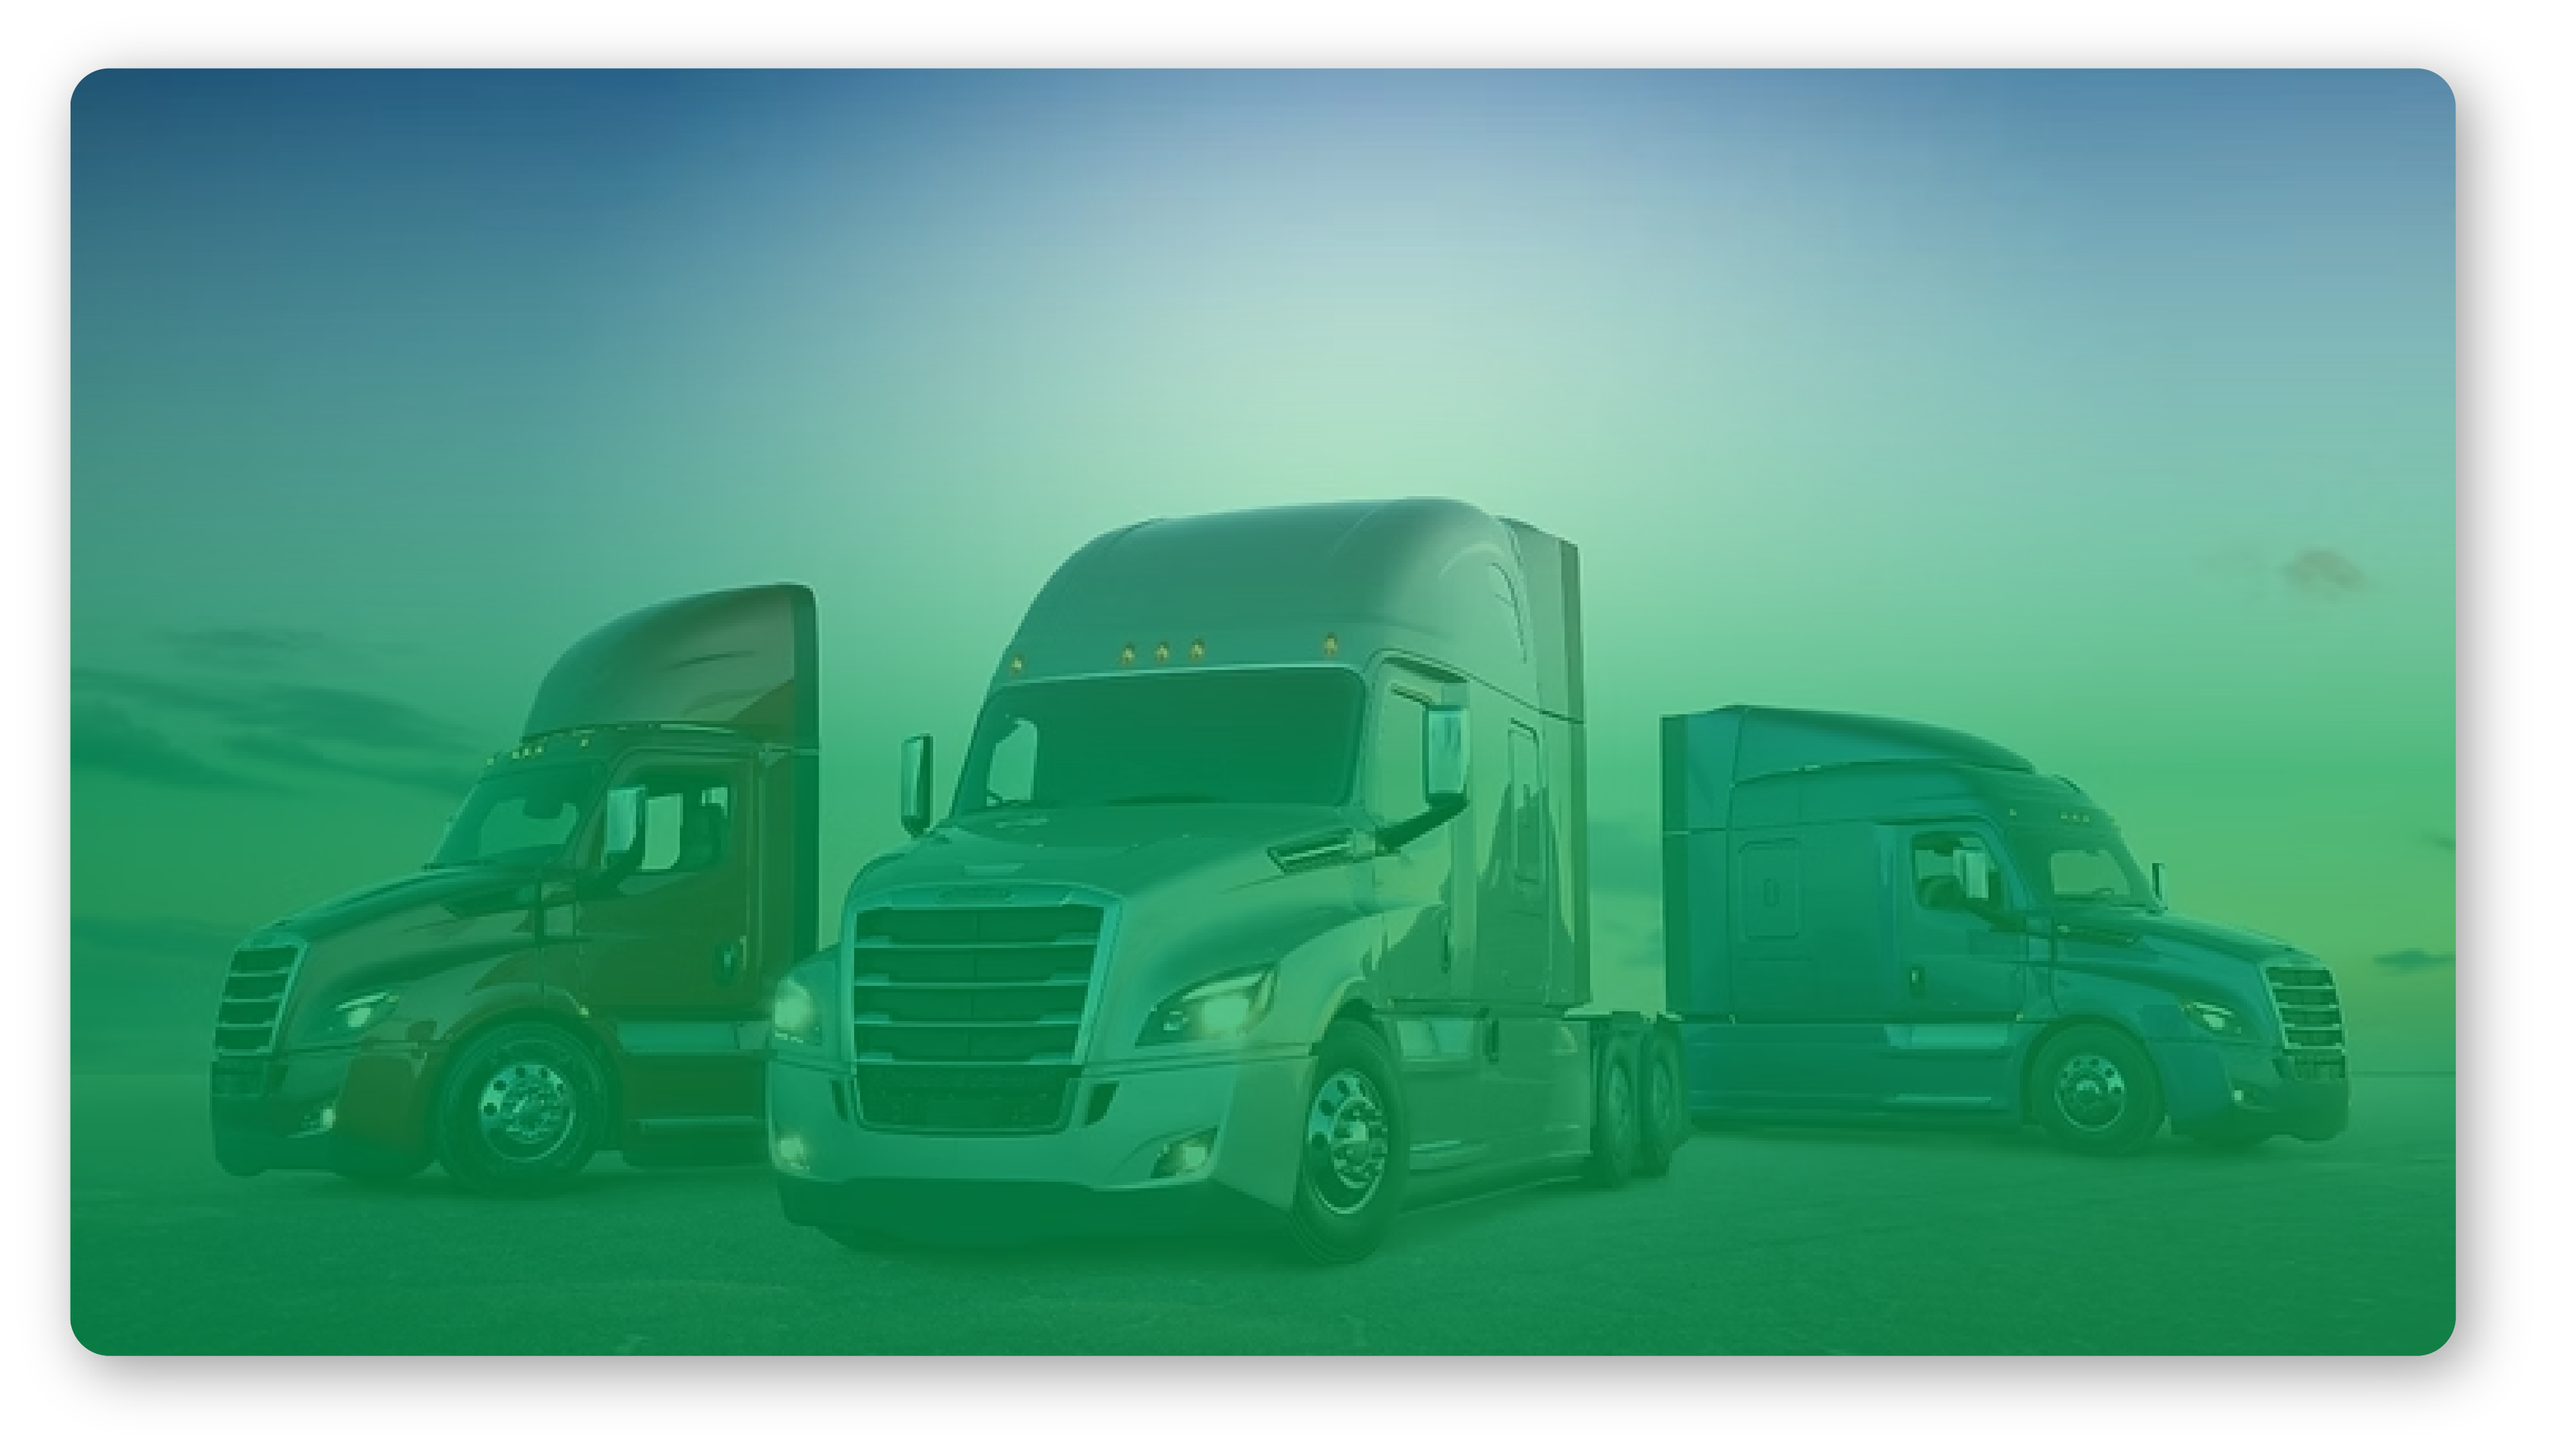
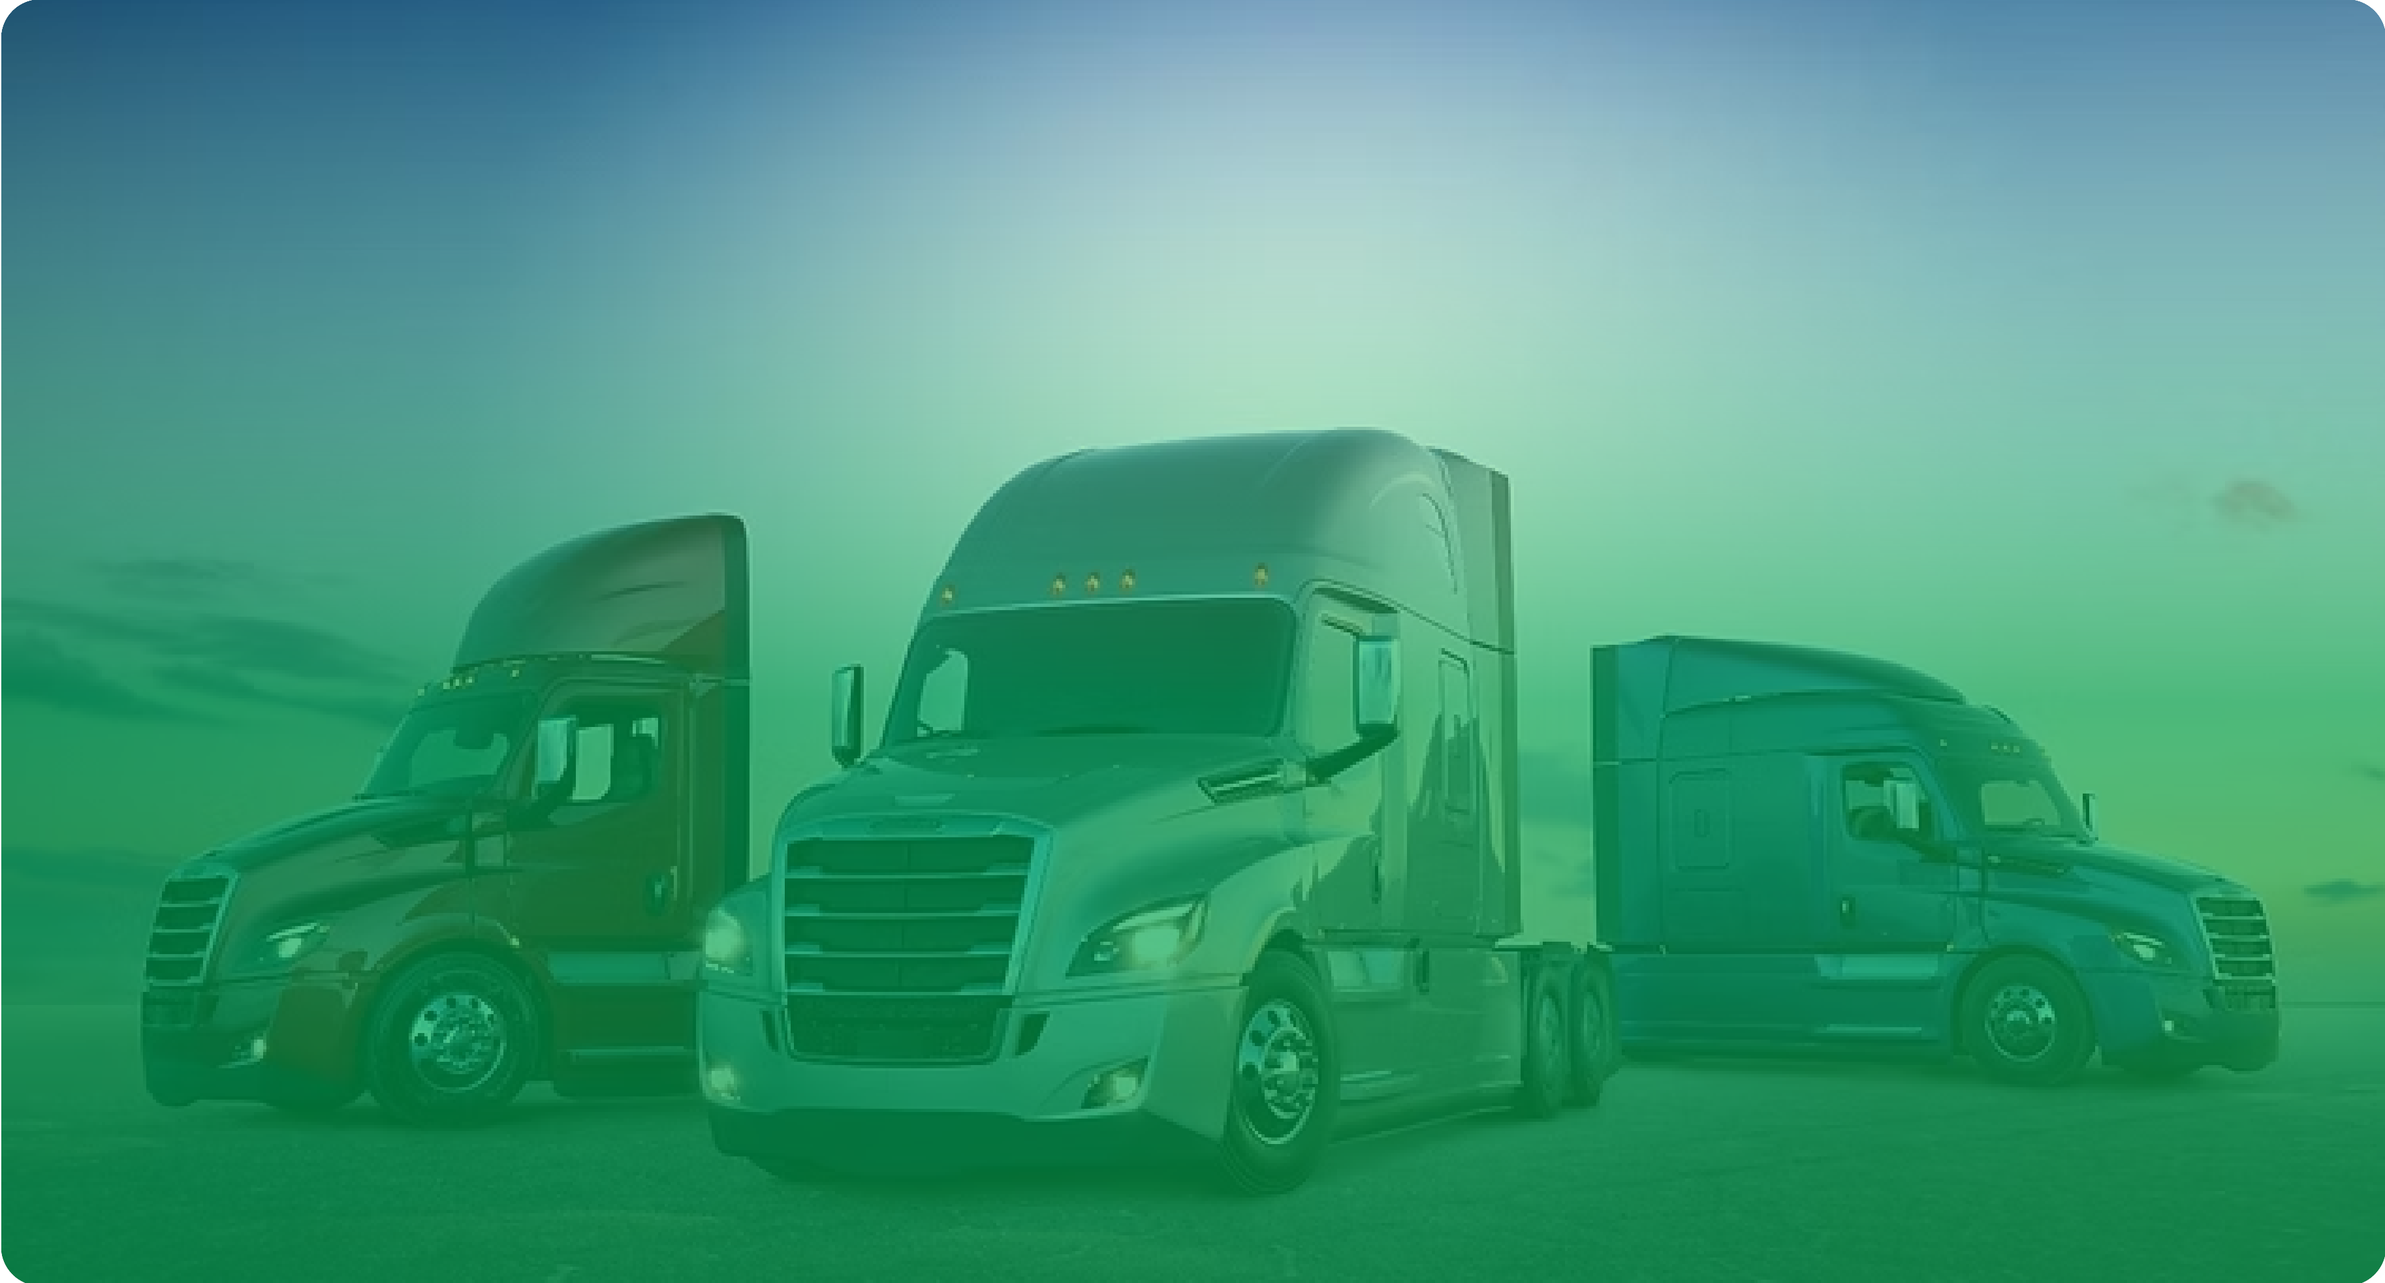
ajustes al responsive del top background

Changed region(s): [[0.0, 0.0, 1.0, 1.0], [0.0936, 0.8067, 0.1248, 0.8377]]

diff --git a/index.html b/index.html
@@ -9,7 +9,7 @@
 </head>
 <body>
     <div class="container-all">
-        <div class="logo-matius d-md-block d-none">
+        <div class="logo-matius d-lg-block d-none">
             <img src="styles/images/matius-logo.avif" alt="">
         </div>
         <div class="top-background-container">
@@ -36,10 +36,13 @@
                             <div class="navbar-nav">
                               <a class="nav-link active" aria-current="page" href="#contact">Inicio</a>
                               <a class="nav-link" href="#weAre">Nosotros</a>
-                              <a class="nav-link" href="#">Servicios</a>
-                              <a class="nav-link" href="#">Contacto</a>
+                              <a class="nav-link" href="#services">Servicios</a>
+                              <a class="nav-link" href="#contact">Contacto</a>
                             </div>
                           </div>
+                          <div class="logo d-block d-lg-none">
+                            <img src="styles/images/matius-logo.avif" alt="">
+                        </div>
                           <div class="offcanvas offcanvas-end" tabindex="-1" id="offcanvasNavbar" aria-labelledby="offcanvasNavbarLabel">
                             <div class="offcanvas-header">
                               <h5 class="offcanvas-title" id="offcanvasNavbarLabel">Menú</h5>
@@ -47,9 +50,10 @@
                             </div>
                             <div class="offcanvas-body">
                               <div class="navbar-nav flex-column">
-                                <a class="nav-link active" aria-current="page" href="#">Contacto</a>
-                                <a class="nav-link" href="#">Nosotros</a>
-                                <a class="nav-link" href="#">Conductores</a>
+                                <a class="nav-link active" aria-current="page" href="#contact">Inicio</a>
+                                <a class="nav-link" href="#weAre">Nosotros</a>
+                                <a class="nav-link" href="#services">Servicios</a>
+                                <a class="nav-link" href="#contact">Contacto</a>
                               </div>
                             </div>
                           </div>
@@ -99,7 +103,7 @@
                 </div>
             </div>
         </div>
-        <div class="our-services-title">
+        <div class="our-services-title" id="services">
             <h4>Nuestros Servicios</h4>
             <div class="border-bottom"></div>
             </div>
@@ -111,7 +115,7 @@
                     <div class="row">
                         <div class="img-arrow-container col-lg-6 d-flex justify-content-center">
                             <div class="title-and-img mb-0 mb-lg-5">
-                                <h3>
+                                <h3 class="mt-4 mt-lg-0">
                                     Transporte de carga
                                 </h3>
                                 <img src="styles/images/transporte-de-carga.avif" alt="" class="mb-0 mb-lg-3">
@@ -146,7 +150,7 @@
                     <div class="row">
                         <div class="img-arrow-container col-lg-6 d-flex justify-content-center">
                             <div class="title-and-img mb-0 mb-lg-5">
-                                <h3>
+                                <h3 class="mt-4 mt-lg-0">
                                     Manipulación de carga
                                 </h3>
                                 <img src="styles/images/manipulacion-de-carga.avif" alt="" class="mb-0 mb-lg-3">
@@ -180,7 +184,7 @@
                     <div class="row">
                         <div class="img-arrow-container col-lg-6 d-flex justify-content-center">
                             <div class="title-and-img mb-0 mb-lg-5">
-                                <h3>
+                                <h3 class="mt-4 mt-lg-0">
                                     Mensajería
                                 </h3>
                                 <img src="styles/images/mensajeria.avif" alt="" class="mb-0 mb-lg-3">
@@ -208,5 +212,6 @@
         </div>
     </div>
     <script src="scripts/js/bootstrap.min.js"></script>
+    <script src="scripts/script.js"></script>
 </body>
 </html>

diff --git a/styles/style.css b/styles/style.css
@@ -1,20 +1,31 @@
 
-
 .logo-matius{
     background-color: white;
     text-align: center;
-    width: 12%;
-    height: 35%;
+    width: 10vw;
     border-bottom-right-radius: 200px;
     border-bottom-left-radius: 200px;
     position: absolute;
-    left: 44%;
+    left: 50%;
+    transform: translateX(-50%);
     align-content: end;
 }
 .logo-matius img{
+    margin-top: 45%;
     width: 75%;
     height: auto;
-    margin-bottom: 10%;
+    margin-bottom: 15%;
+}
+
+.logo{
+    text-align: end;
+    width: 70%;
+}
+
+.logo img{
+    width: 35%;
+    border: solid rgb(255, 255, 255) 10px;
+    border-radius: 100px;
 }
 
 /*top background styles*/
@@ -24,9 +35,8 @@
     background-repeat: no-repeat;
     background-position: center;
     width: 100%;
-    height: 100vh;
-    /* filter: blur(10px); */
-    padding: 0;
+    height: min-content;
+    padding: 2.5% 0;
     margin: 0;
     align-content: center;
 }
@@ -38,7 +48,7 @@
 
 /*styles for the menu and services container*/
 .menu-services-container{
-    background-image: url('images/background-green-gradient.png');
+    background-image: url('images/RecursosPng/Asset 11.png');
     width: 91.5%;
     height: 89%;
     background-repeat: no-repeat;
@@ -62,12 +72,24 @@
     border-bottom: 2px solid green;
     color: rgb(9, 17, 132);
 }
+
 .menu-container{
-    width: 95%;
     padding-top: 55px;
     margin: 0 auto;
-    height: 65%;
+    width: 95%;
 }
+
+/* .menu-scroll{
+    position: absolute; 
+    top: 0;
+    width: 100%;
+    z-index: 5000;
+    background-color: transparent;
+    transition: all 0.3s ease-in-out;
+    backdrop-filter: blur(10px);
+    background-color: rgba(62, 128, 76, 0.5);
+    box-shadow: 0px 4px 10px rgba(0, 0, 0, 0.2);
+} */
 
 .offcanvas-end {
     background-color: rgb(62, 128, 76);
@@ -124,6 +146,9 @@
     height: 35.1%;
     border-bottom-right-radius: 25px;
     border-bottom-left-radius: 25px;
+    margin-top: 40vh;
+    padding-bottom: 2%;
+
 }
 .services-start-title h5{
     background-color: #17a454;
@@ -180,7 +205,7 @@
     position: fixed;
     cursor: pointer;
     width: 75px;
-    z-index: 2000;
+    z-index: 2;
     bottom: 10px;
     right: 100px;
 }
@@ -188,8 +213,7 @@
 /*we are Matius styles*/
 .we-are-container{
     background-color: #e5ffbd;
-    /* padding-bottom: 7%; */
-    /* height: 80%; */
+    padding-bottom: 3%;
 }
 
 .we-are-text-container{
@@ -204,7 +228,7 @@
     text-align: justify;
     margin-top: 5%;
     letter-spacing: 0px;
-    font-size: 1.15em;
+    font-size: 1.2em;
     line-height: 1.25;
 }
 .we-are-title{
@@ -222,15 +246,18 @@
 }
 
 .street-img img{
-    width: 100%;
+    width: 27.5vh;
+    position: absolute;
+    z-index: 3;
 }
 
 
 /*Our services styles*/
 
 .our-services-title{
-    padding-top: 25px;
+    position: absolute;
     padding: 3%;
+    padding-top: 5%;
     text-align: center;
     justify-items: center;
     position: relative;
@@ -239,7 +266,14 @@
 .our-services-title h4{
     font-weight: 100;
     color: white;
-    font-size: 1.5em;
+    font-size: 1.8em;
+}
+.our-services-title .border-bottom{
+    background-color: #ffffff;
+    border: none;
+    height: 1.7px;
+    width: 14%;
+    margin-top: 1.5%;
 
 }
 .our-services-container{
@@ -249,10 +283,11 @@
 }
 .our-services-green-div{
     background-color: #17a454;
-    height: 60%;
+    height: 25%;
     text-align: center;
     position: absolute;
     width: 100%;
+    border: solid 5px #17a454;
 }
 .services-cards{
     position: relative;
@@ -369,12 +404,6 @@
 /*ajustes*/
 
 /* Mejorar escalado de elementos */
-.logo-matius {
-    width: 12vw;
-    height: auto;
-    left: 50%;
-    transform: translateX(-50%);
-}
 
 .services-container {
     width: 100%;
@@ -393,4 +422,8 @@
     .info {
         font-size: 1em;
     }
+    .service{
+        border: none;
+    }
 }
+

diff --git a/scripts/script.js b/scripts/script.js
@@ -1,0 +1,10 @@
+// document.addEventListener("scroll", function () {
+//     let menu = document.querySelector(".menu-container");
+//     if (window.scrollY > 200) {
+//         menu.classList.remove("menu-container")
+//         menu.classList.add("menu-scroll"); // Aplica el blur cuando se hace scroll
+//     } else {
+//         menu.classList.remove("menu-scroll"); // Lo quita cuando está arriba
+//         menu.classList.add("menu-container")
+//     }
+// });
